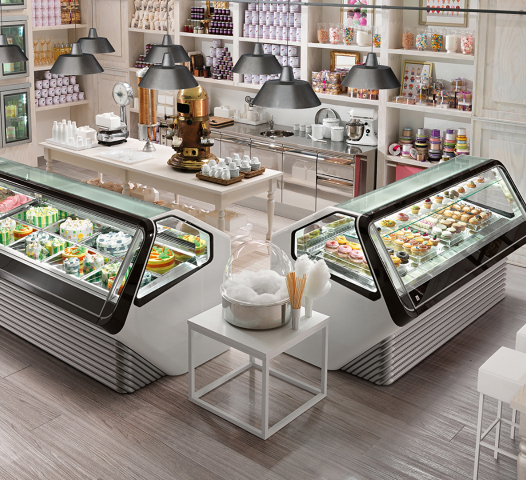
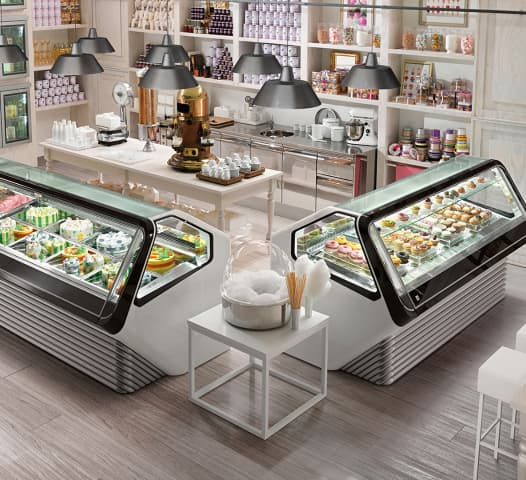
Добавляет 2px картинки

diff --git a/src/partials/contacts.html b/src/partials/contacts.html
@@ -115,7 +115,12 @@
 
 <ul class="contacts-list-modal list">
     <li class="contacts-list__item contacts-list__item--modal">
-        <img class="contacts-list__photo" src="./images/cafe-chicago-1px.jpg" alt="фото кафе" width="270">
+        <img class="contacts-list__photo" 
+        srcset="
+        ./images/cafe-chicago-1px.jpg 1px,
+        ./images/cafe-chicago-2px.jpg 2px"
+        src="./images/cafe-chicago-1px.jpg" 
+        alt="фото кафе" width="270">
 
         <div class="contacts-list__content">
             <p class="contacts-list__category contacts-list__category--rose"> CAFE</p>
@@ -129,7 +134,12 @@
         </div>
     </li>
     <li class="contacts-list__item contacts-list__item--modal">
-        <img class="contacts-list__photo" src="./images/foodtruck-la-1px.jpg" alt="фото кафе" width="270">
+        <img class="contacts-list__photo" 
+        srcset="
+        ./images/foodtruck-la-1px.jpg 1px,
+        ./images/foodtruck-la-2px.jpg 2px"
+        src="./images/foodtruck-la-1px.jpg" 
+        alt="фото кафе" width="270">
 
         <div class="contacts-list__content">
             <p class="contacts-list__category contacts-list__category--green">FOODTRUCK</p>
@@ -143,7 +153,12 @@
         </div>
     </li>
     <li class="contacts-list__item contacts-list__item--modal">
-        <img class="contacts-list__photo" src="./images/cafe-ny-1px.jpg" alt="фото кафе" width="270">
+        <img class="contacts-list__photo"
+        srcset="
+        ./images/cafe-ny-1px.jpg 1px,
+        ./images/cafe-ny-2px.jpg 2px"
+        src="./images/cafe-ny-1px.jpg" 
+        alt="фото кафе" width="270">
         <div class="contacts-list__content">
             <p class="contacts-list__category contacts-list__category--rose">CAFE</p>
             <p class="contacts-list__city">New York</p>
